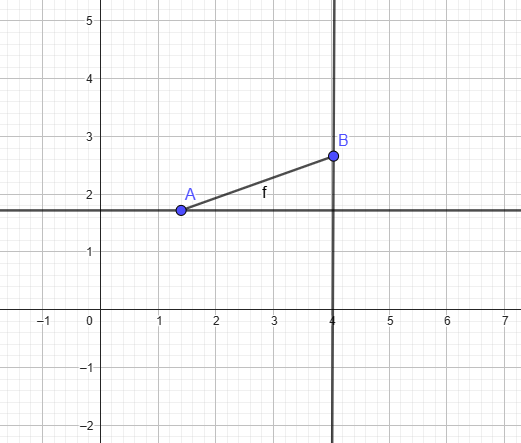
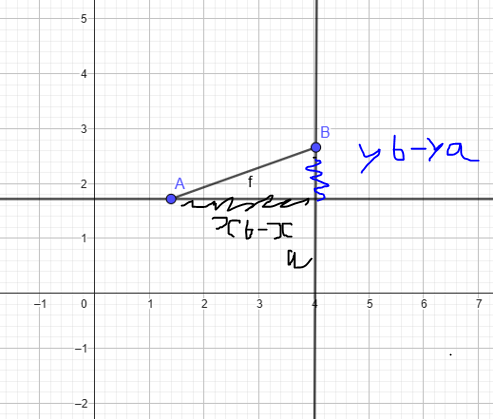
Mise ├á jour compl├¿te depuis le PC le 2025-11-19_57s ├á 15:14:39,43

diff --git a/maths/Projets/Grapheur/Grapheur.html b/maths/Projets/Grapheur/Grapheur.html
@@ -148,7 +148,73 @@ plt.ylabel("Y")
 plt.show()
   </pre>
 </div>
-<p>    Mais nous, on cherche à savoir comment marche maplotlib, c'est pourquoi, nous allons créer une bibliothèque très simple pour tracer une fonction... Et c'est là que tout va se compliquer...
+<p>    Recodons-la... Sans bibliothèques (exceptées <a href="https://docs.python.org/3/library/turtle.html">turtle (bibliothèque graphique)</a> et <a href="https://docs.python.org/3/library/math.html">maths</a>, qui nous facilitera la tâche pour les fonctions trigonométriques essentiellement)</p>
+<p> Mais avant de foncer tête baissée, relevons-la un peu de peur d'aller droit dans le mur. Un grapheur, c'est un outil numérique de traçage. Ici, nous voulons reproduire le fonctionnement d'une calculatrice numworks [Image calculette] 
+<br><br>  Un grapheur ne calcule pas un coefficient directeur d'une fonction, ce serait trop complexe, et rendrait le tracé impossible pour les fonctions non-linéaires! Pour fonctionner, il calcule simplement les valeurs de y soit f(x) pour des valeurs de x calculées avec un interval (par exemple x=0.01; 0.02...). Cet interval est ajustable selon la fonction entrée. Ensuite, il relie ces points. C'est le petit point technique sur lequel nous nous attarderons le plus longtemps.
+<p>Voici comment sera organisé notre programme: </p>
+	<br>→  Un input demandera l'expression d'une fonction à l'utilisateur
+	<br>→  L'axe des abcisse et celui des ordonnées sera tracé, le centre sera défini comme l'origine du repère
+	<br>→  La fonction sera extraite et réorganisée de façon à pouvoir être interprêtée par le script (par exemple transformer 3x+5 en 3*x+5)
+	<br>→  Une boucle partira de xmin jusqu'à xmax en calculant f(x+0.01) avec x=x+0.01
+	<br>→  L'enjeu du script est qu'il devra relier les points: une fois  f(x+0.01) calculé (il faudra bien que le script parte de f(0), et donc qu'il établisse une échelle entre le déplacement de la tortue, c'est-à-dire la longeur 'réelle' des axes, avec leur longeur théorique, 1 unité). Il faudra donc dire au script à combien de degrés s'orienter et de combien avancer pour aller de sa position actuelle à f(x+0.01).
 </div>
+<br>
+<br>
+	<div id="parties" >
+	<h2>Comment relier deux points ?</h2>
+<br>
+<p>    Avant de commencer à coder, nous devons savoir comment relier deux points de coordonnées (Xa, Ya) et (Xb, Yb) avec turtle.
+<p>Le triangle ABO (notons O le point de coordonnées O(Xb; Ya) est rectangle. En effet, les axes X et Y sont perpediculaires. AB
+<figure>
+<img src="Geogebra.png" alt="Projet créé sur géogébra: https://www.geogebra.org">
+ <figcaption>Créé avec GeoGebra – www.geogebra.org</figcaption>
+</figure>
+D'après le théorème de pythagore, la longeur AB est de: 
+
+\[
+AB = \sqrt{\, 
+   \underbrace{(X_b - X_a)^2}_{X_a \text{ pour aller à } X_b} 
+   + 
+   \underbrace{(Y_b - Y_a)^2}_{Y_a \text{ pour aller à } Y_b}
+\,}
+\]
+
+
+
+(sur le dessin, j'ai préféré mettre Xb-Xa et Yb-Ya, ce ne sont pas des longueurs, mais la translation qui transforme A en B (A pour aller à B)
+$$AB=\sqrt{\underbrace{(X_a - X_b)^2}_{\text{(A-B)^2=(B-A)^2}} + \underbrace{(Y_a - Y_b)^2}_{\text{Idem}}}$$ 
+<br>
+Maintenant que nous savons de combien avancer (nous ferons un petit calcul d'échelle dans le script), il faut qu'on sache à combien de degrés s'orienter ! Pour un angle d'un triangle rectangle, les rapports côté opposé/hypoténuse, côté adjacent/hypoténuse et côté opposé/côté adjacent (entre autres), sont des constantes. Ils définissent des fonctions universelles : sinus, cosinus, tangente. On a ensuite créé les fonctions arcsin, arcoss et artan qui sont les primitives de leurs fonctions respectives, artan(tan(a))=a. Pour plus de détails, je vous invite à consulter L'<a href="https://fr.wikipedia.org/wiki/Histoire_des_fonctions_trigonom%C3%A9triques">Histoire des fonctions trigonométriques</a>. En utilisant la fonction tangente(x), on obtient: 
+
+$$\widehat{OAB} = \arctan\!\left( \frac{|Y_a - Y_b|}{|X_a - X_b|} \right)$$
+
+<figure>
+<img src="GeogebraAngle.png" alt="Projet créé sur géogébra: https://www.geogebra.org">
+ <figcaption>Créé avec GeoGebra – www.geogebra.org</figcaption>
+</figure>
+<br>
+Mais l'angle que nous avons calculé n'est pas une orientation. Il ne suffit pas de s'orienter à \(\widehat{OAB}\). En effet, et cela peut paraître assez intuitif comme nous avons fourni les longueurs en valeur absolue, il nous est impossible de distinguer ces deux cas : 
+<img src="Geogebra2.png" alt="Projet créé sur géogébra: https://www.geogebra.org">
+<figcaption>Créé avec GeoGebra – www.geogebra.org</figcaption>
+Géométriquement parlant, les deux triangles \(\widehat{OAB}\) et \(\widehat{OAB'}\) sont identiques. Cependant, dans notre cas, notre tortue devra s'orienter à \(\arctan\!\left(\frac{|Y_a - Y_b|}{|X_a - X_b|}\right)\) pour relier A à B, et à \(-\arctan\!\left(\frac{|Y_a - Y_{b'}|}{|X_a - X_{b'}|}\right)\) pour relier A à B'.
+Regardez par exemple ce que doit faire le hérisson sur scratch:
+<figure>
+<img src="ScratchAngles-.png" width="55%" alt="Projet créé sur scratch: https://scratch.mit.edu/">
+ <figcaption>Créé avec Scratch – scratch.mit.edu </figcaption>
+</figure>
+
+Le petit hérisson part de l'axe des abcisses et pour tracer [AB], avant d'avancer, il doit s'orienter à   \( -\widehat{OAB} \) et non   \( \widehat{OAB} \) tandis que pour tracer [AB'], il doit s'orienter à   \( \widehat{OAB} \) degrés. 
+<figure>
+	<img src="ScratchAngles+.png" width="55%" alt="Projet créé sur scratch: https://scratch.mit.edu/">
+ <figcaption>Créé avec Scratch – scratch.mit.edu </figcaption>
+</figure>
+<br>
+<p>
+Il existe plusieurs cas de symétrie ici.
+[Je vais expliquer]
+ 2d (4) 3d, 4d... : combien de triangles rectangles pareil existent: autant que de quadrants --> 1D 2quadrants = 2 cas, 2d, 4 quadrants...
+ Il faut maintenant le prouver...
+</p>
+
 </body>
 </html>
